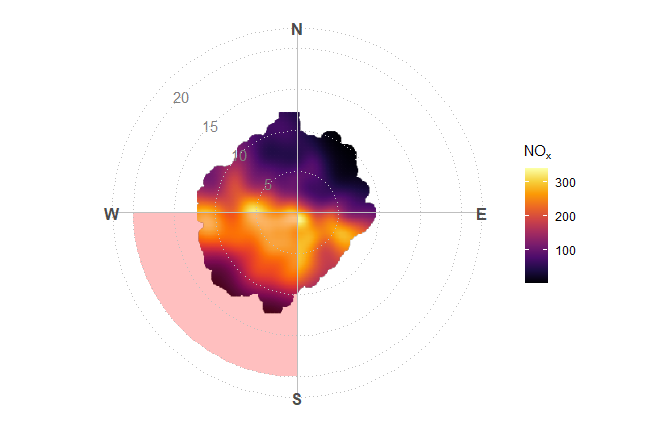
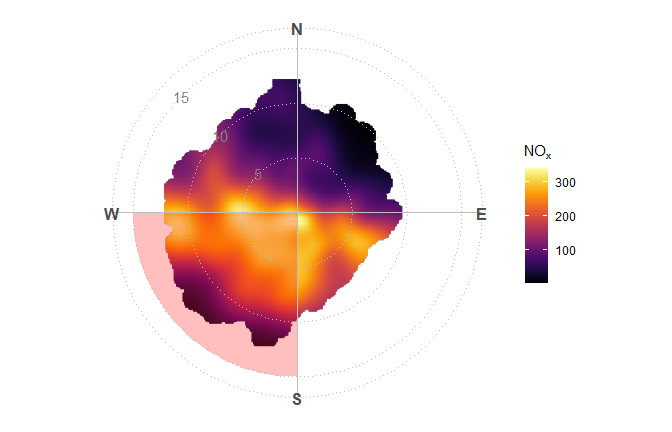
docs (readme): update readme

Changed region(s): [[0.2188, 0.1806, 0.625, 0.8125], [0.25, 0.2106, 0.2812, 0.2407]]

diff --git a/README.md b/README.md
@@ -33,7 +33,7 @@ An openair polar plot looks like this:
 openair::polarPlot(ggopenair::marylebone)
 ```
 
-<img src="man/figures/README-legacy-1.png" style="display: block; margin: auto;" />
+<img src="man/figures/readme-legacy-1.png" style="display: block; margin: auto;" />
 
 To achieve the same result in `ggopenair` one would write:
 
@@ -47,7 +47,7 @@ gg_polar_plot(marylebone, "nox") +
   scale_opencolours()
 ```
 
-<img src="man/figures/README-ggpolar-1.png" style="display: block; margin: auto;" />
+<img src="man/figures/readme-ggpolar-1.png" style="display: block; margin: auto;" />
 
 This is more long winded, but the flexibility allows users to customise
 their outputs very closely. For example:
@@ -64,7 +64,7 @@ gg_polar_plot(marylebone, "nox") +
   guides(color = guide_colorbar(barwidth = grid::unit(5, "cm")))
 ```
 
-<img src="man/figures/README-themes-1.png" style="display: block; margin: auto;" />
+<img src="man/figures/readme-themes-1.png" style="display: block; margin: auto;" />
 
 Or we could make our polar plot blend in with some other plots produced
 in Google Sheets:
@@ -75,7 +75,7 @@ gg_polar_plot(marylebone, "nox") +
   scale_color_gradientn(colours = ggthemes::gdocs_pal()(3))
 ```
 
-<img src="man/figures/README-unnamed-chunk-1-1.png" style="display: block; margin: auto;" />
+<img src="man/figures/readme-unnamed-chunk-1-1.png" style="display: block; margin: auto;" />
 
 ### Scales
 
@@ -90,7 +90,7 @@ gg_polar_plot(marylebone, "nox") +
                              breaks = seq(0, 1000, 40))
 ```
 
-<img src="man/figures/README-scales-1.png" style="display: block; margin: auto;" />
+<img src="man/figures/readme-scales-1.png" style="display: block; margin: auto;" />
 
 Alternatively, one could use the “trans” argument to shift the colour
 scale. This could be particularly useful for `gg_polar_freq()`, which
@@ -110,7 +110,7 @@ patchwork::wrap_plots(shift_axis("identity"),
                       shift_axis("log10"))
 ```
 
-<img src="man/figures/README-trans-1.png" style="display: block; margin: auto;" />
+<img src="man/figures/readme-trans-1.png" style="display: block; margin: auto;" />
 
 ### Annotations
 
@@ -123,10 +123,10 @@ gg_polar_plot(marylebone, "nox") +
   theme_polar() +
   scale_opencolours("inferno") +
   annotate_polar_wedge("S", "W") +
-  annotate_polar_axis(seq(5, 20, 5), color = "grey50")
+  annotate_polar_axis(seq(5, 15, 5), color = "grey50")
 ```
 
-<img src="man/figures/README-annotations-1.png" style="display: block; margin: auto;" />
+<img src="man/figures/readme-annotations-1.png" style="display: block; margin: auto;" />
 
 Calendar plots also possess their own dedicated annotation functions.
 
@@ -139,7 +139,7 @@ marylebone |>
   scale_opencolours()
 ```
 
-<img src="man/figures/README-calendar-1.png" style="display: block; margin: auto;" />
+<img src="man/figures/readme-calendar-1.png" style="display: block; margin: auto;" />
 
 ### Extension
 
@@ -163,4 +163,4 @@ tv$day_hour / (tv$month | tv$day | polar) +
   plot_layout(heights = c(.8, 1), guides = "collect")
 ```
 
-<img src="man/figures/README-patch-1.png" width="100%" style="display: block; margin: auto;" />
+<img src="man/figures/readme-patch-1.png" width="100%" style="display: block; margin: auto;" />
